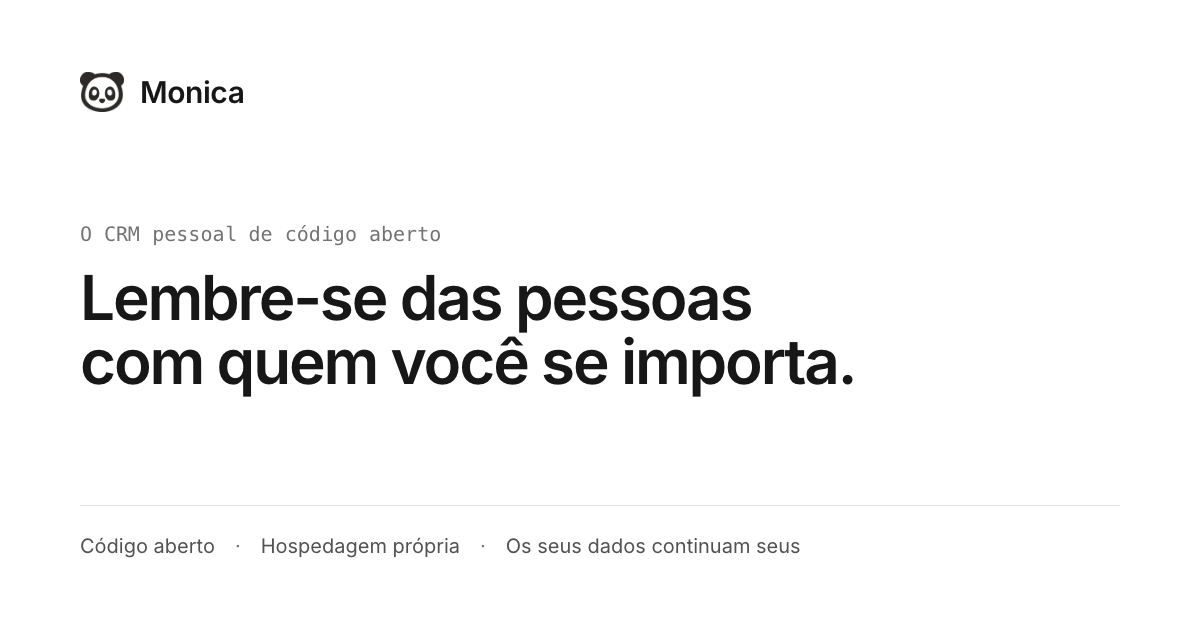
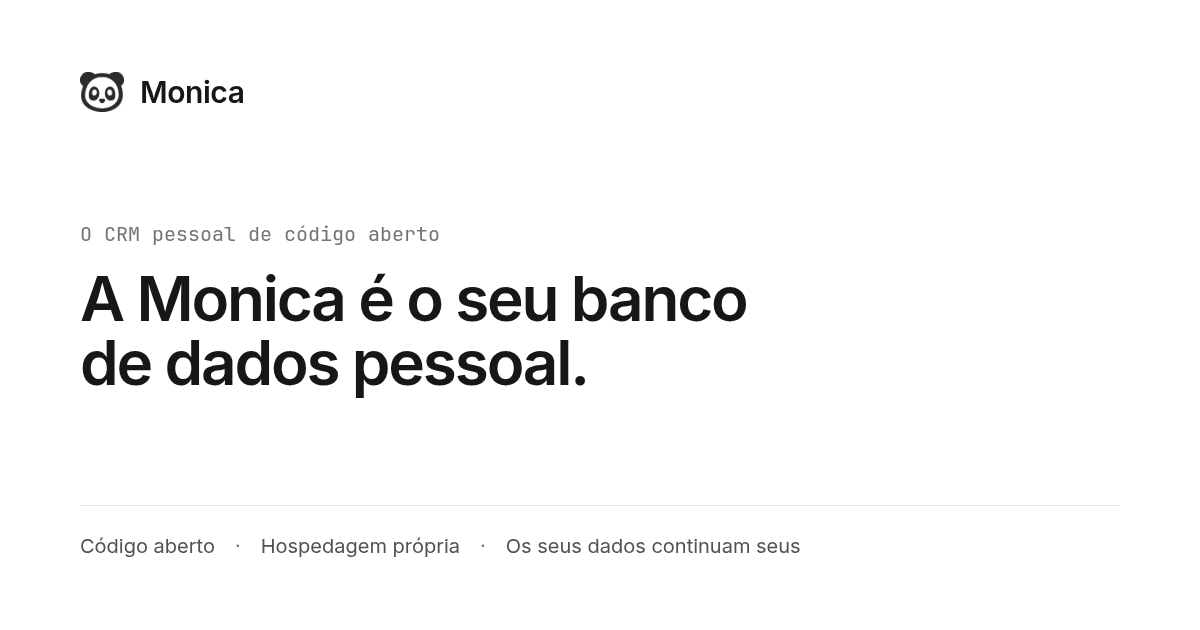
feat(home): present Monica as a personal database in the headline
The hero now reads "Monica is your personal database." with "Store the
people you know, the things you own, and everything you want to
remember." under it, in every locale. The social cards and their alt
text mirror the headline, so both are updated and the cards regenerated.

Changed region(s): [[0.0617, 0.4222, 0.7092, 0.6333], [0.0925, 0.3619, 0.37, 0.3921]]

diff --git a/scripts/og/template.html b/scripts/og/template.html
@@ -131,42 +131,42 @@
       const COPY = {
         en: {
           eyebrow: 'The open-source personal CRM',
-          title: 'Remember the people you care about.',
+          title: 'Monica is your personal database.',
           foot: ['Open source', 'Self-hostable', 'Your data stays yours'],
         },
         fr: {
           eyebrow: 'Le CRM personnel open source',
-          title: 'Souvenez-vous des gens qui comptent pour vous.',
+          title: 'Monica est votre base de données personnelle.',
           foot: ['Open source', 'Auto-hébergeable', 'Vos données restent les vôtres'],
         },
         de: {
           eyebrow: 'Das quelloffene persönliche CRM',
-          title: 'Erinnern Sie sich an die Menschen, die Ihnen wichtig sind.',
+          title: 'Monica ist Ihre persönliche Datenbank.',
           foot: ['Quelloffen', 'Selbst hostbar', 'Ihre Daten bleiben Ihre'],
         },
         es: {
           eyebrow: 'El CRM personal de código abierto',
-          title: 'Recuerda a las personas que te importan.',
+          title: 'Monica es tu base de datos personal.',
           foot: ['Código abierto', 'Alojable por ti', 'Tus datos siguen siendo tuyos'],
         },
         pt: {
           eyebrow: 'O CRM pessoal de código aberto',
-          title: 'Lembre-se das pessoas com quem você se importa.',
+          title: 'A Monica é o seu banco de dados pessoal.',
           foot: ['Código aberto', 'Hospedagem própria', 'Os seus dados continuam seus'],
         },
         nl: {
           eyebrow: 'De open source persoonlijke CRM',
-          title: 'Onthoud de mensen die je dierbaar zijn.',
+          title: 'Monica is je persoonlijke database.',
           foot: ['Open source', 'In eigen beheer', 'Je gegevens blijven van jou'],
         },
         zh: {
           eyebrow: '开源的个人 CRM',
-          title: '记住你在乎的人。',
+          title: 'Monica 是你的个人数据库。',
           foot: ['开源', '可自托管', '你的数据始终属于你'],
         },
         ru: {
           eyebrow: 'Персональная CRM с открытым исходным кодом',
-          title: 'Помните людей, которые вам дороги.',
+          title: 'Monica — ваша личная база данных.',
           foot: ['Открытый исходный код', 'Можно развернуть у себя', 'Ваши данные остаются вашими'],
         },
       };

diff --git a/lang/ru.php b/lang/ru.php
@@ -21,7 +21,7 @@ return [
      * beside them rather than inside them.
      */
     'meta' => [
-        'imageAlt' => "Monica: помните людей, которые вам дороги. Персональная CRM с открытым исходным кодом.",
+        'imageAlt' => "Monica — ваша личная база данных. Персональная CRM с открытым исходным кодом.",
 
         /**
          * The page names in a breadcrumb trail: one per route key, plus the
@@ -340,8 +340,8 @@ return [
     'home' => [
         'hero' => [
             'pill' => "Рейчел, Росс, Чендлер, Джоуи и утёнок",
-            'title' => "Помните людей, которые вам дороги.",
-            'subtitle' => "Мы — персональная CRM с открытым исходным кодом.",
+            'title' => "Monica — ваша личная база данных.",
+            'subtitle' => "Храните людей, которых вы знаете, вещи, которые у вас есть, и всё, что хотите помнить.",
             'lede' => "Приватность заложена в основу. Открытый исходный код. Можно развернуть у себя. Без рекламы, без перепродажи данных, без неловких уведомлений «для вовлечённости».",
             'start' => "Начать пользоваться Monica",
             'github' => "Открыть на GitHub",

diff --git a/lang/de.php b/lang/de.php
@@ -8,7 +8,7 @@
 
 return [
     'meta' => [
-        'imageAlt' => "Monica: Erinnern Sie sich an die Menschen, die Ihnen wichtig sind. Das quelloffene persönliche CRM.",
+        'imageAlt' => "Monica ist Ihre persönliche Datenbank. Das quelloffene persönliche CRM.",
 
         'breadcrumb' => [
             'home' => "Startseite",
@@ -315,8 +315,8 @@ return [
     'home' => [
         'hero' => [
             'pill' => "Rachel, Ross, Chandler, Joey und die Ente",
-            'title' => "Erinnern Sie sich an die Menschen, die Ihnen wichtig sind.",
-            'subtitle' => "Wir sind ein quelloffenes persönliches CRM.",
+            'title' => "Monica ist Ihre persönliche Datenbank.",
+            'subtitle' => "Speichern Sie die Menschen, die Sie kennen, die Dinge, die Sie besitzen, und alles, woran Sie sich erinnern möchten.",
             'lede' => "Privat von Grund auf. Quelloffen. Selbst hostbar. Keine Werbung, kein Datenverkauf, keine peinlichen Benachrichtigungen zur „Aktivierung“.",
             'start' => "Mit Monica beginnen",
             'github' => "Auf GitHub ansehen",

diff --git a/lang/fr.php b/lang/fr.php
@@ -10,7 +10,7 @@
 
 return [
     'meta' => [
-        'imageAlt' => "Monica : souvenez-vous des gens qui comptent pour vous. Le CRM personnel open source.",
+        'imageAlt' => "Monica est votre base de données personnelle. Le CRM personnel open source.",
 
         'breadcrumb' => [
             'home' => "Accueil",
@@ -317,8 +317,8 @@ return [
     'home' => [
         'hero' => [
             'pill' => "Rachel, Ross, Chandler, Joey et le canard",
-            'title' => "Souvenez-vous des gens qui comptent pour vous.",
-            'subtitle' => "Nous sommes un CRM personnel open source.",
+            'title' => "Monica est votre base de données personnelle.",
+            'subtitle' => "Enregistrez les gens que vous connaissez, les choses que vous possédez et tout ce que vous voulez retenir.",
             'lede' => "Privée par conception. Open source. Auto-hébergeable. Aucune publicité, aucune revente de données, aucune notification gênante pour vous « réengager ».",
             'start' => "Commencer avec Monica",
             'github' => "Voir sur GitHub",

diff --git a/lang/pt.php b/lang/pt.php
@@ -12,7 +12,7 @@
 
 return [
     'meta' => [
-        'imageAlt' => "Monica: lembre-se das pessoas com quem você se importa. O CRM pessoal de código aberto.",
+        'imageAlt' => "A Monica é o seu banco de dados pessoal. O CRM pessoal de código aberto.",
 
         'breadcrumb' => [
             'home' => "Início",
@@ -322,8 +322,8 @@ return [
     'home' => [
         'hero' => [
             'pill' => "Rachel, Ross, Chandler, Joey e o pato",
-            'title' => "Lembre-se das pessoas com quem você se importa.",
-            'subtitle' => "Somos um CRM pessoal de código aberto.",
+            'title' => "A Monica é o seu banco de dados pessoal.",
+            'subtitle' => "Guarde as pessoas que você conhece, as coisas que você tem e tudo o que quer lembrar.",
             'lede' => "Privada por concepção. De código aberto. Com hospedagem própria. Sem anúncios, sem revenda de dados, sem notificações constrangedoras de “engajamento”.",
             'start' => "Começar a usar a Monica",
             'github' => "Ver no GitHub",

diff --git a/lang/en.php b/lang/en.php
@@ -18,7 +18,7 @@ return [
      * beside them rather than inside them.
      */
     'meta' => [
-        'imageAlt' => "Monica: remember the people you care about. The open-source personal CRM.",
+        'imageAlt' => "Monica is your personal database. The open-source personal CRM.",
 
         /**
          * The page names in a breadcrumb trail: one per route key, plus the
@@ -337,8 +337,8 @@ return [
     'home' => [
         'hero' => [
             'pill' => "Rachel, Ross, Chandler, Joey, and the duck",
-            'title' => "Remember the people you care about.",
-            'subtitle' => "We are an open source personal CRM.",
+            'title' => "Monica is your personal database.",
+            'subtitle' => "Store the people you know, the things you own, and everything you want to remember.",
             'lede' => "Private by design. Open source. Self-hostable. No ads, no data resale, no awkward “engagement” notifications.",
             'start' => "Start using Monica",
             'github' => "View on GitHub",

diff --git a/lang/nl.php b/lang/nl.php
@@ -11,7 +11,7 @@
 
 return [
     'meta' => [
-        'imageAlt' => "Monica: onthoud de mensen die je dierbaar zijn. De open source persoonlijke CRM.",
+        'imageAlt' => "Monica is je persoonlijke database. De open source persoonlijke CRM.",
 
         'breadcrumb' => [
             'home' => "Start",
@@ -314,8 +314,8 @@ return [
     'home' => [
         'hero' => [
             'pill' => "Rachel, Ross, Chandler, Joey en de eend",
-            'title' => "Onthoud de mensen die je dierbaar zijn.",
-            'subtitle' => "We zijn een open source persoonlijke CRM.",
+            'title' => "Monica is je persoonlijke database.",
+            'subtitle' => "Bewaar de mensen die je kent, de dingen die je hebt en alles wat je wilt onthouden.",
             'lede' => "Privé van opzet. Open source. In eigen beheer te draaien. Geen advertenties, geen doorverkoop van gegevens, geen ongemakkelijke meldingen over “betrokkenheid”.",
             'start' => "Begin met Monica",
             'github' => "Bekijk op GitHub",

diff --git a/lang/es.php b/lang/es.php
@@ -8,7 +8,7 @@
 
 return [
     'meta' => [
-        'imageAlt' => "Monica: recuerda a las personas que te importan. El CRM personal de código abierto.",
+        'imageAlt' => "Monica es tu base de datos personal. El CRM personal de código abierto.",
 
         'breadcrumb' => [
             'home' => "Inicio",
@@ -319,8 +319,8 @@ return [
     'home' => [
         'hero' => [
             'pill' => "Rachel, Ross, Chandler, Joey y el pato",
-            'title' => "Recuerda a las personas que te importan.",
-            'subtitle' => "Somos un CRM personal de código abierto.",
+            'title' => "Monica es tu base de datos personal.",
+            'subtitle' => "Guarda a las personas que conoces, las cosas que tienes y todo lo que quieres recordar.",
             'lede' => "Privada por diseño. De código abierto. Alojable por ti. Sin anuncios, sin reventa de datos, sin notificaciones incómodas para «reengancharte».",
             'start' => "Empezar con Monica",
             'github' => "Ver en GitHub",

diff --git a/lang/zh.php b/lang/zh.php
@@ -18,7 +18,7 @@ return [
      * beside them rather than inside them.
      */
     'meta' => [
-        'imageAlt' => "Monica：记住你在乎的人。开源的个人 CRM。",
+        'imageAlt' => "Monica 是你的个人数据库。开源的个人 CRM。",
 
         /**
          * The page names in a breadcrumb trail: one per route key, plus the
@@ -337,8 +337,8 @@ return [
     'home' => [
         'hero' => [
             'pill' => "Rachel、Ross、Chandler、Joey，还有那只鸭子",
-            'title' => "记住你在乎的人。",
-            'subtitle' => "我们是一个开源的个人 CRM。",
+            'title' => "Monica 是你的个人数据库。",
+            'subtitle' => "记下你认识的人、你拥有的东西，以及你想记住的一切。",
             'lede' => "默认注重隐私。开源。可自托管。没有广告，不转售数据，也没有尴尬的“互动”通知。",
             'start' => "开始使用 Monica",
             'github' => "在 GitHub 上查看",
